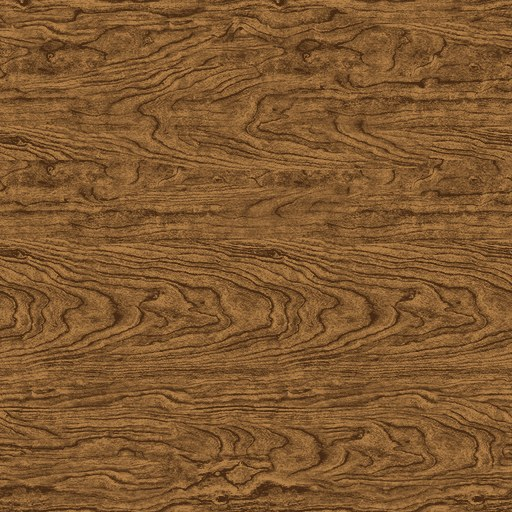
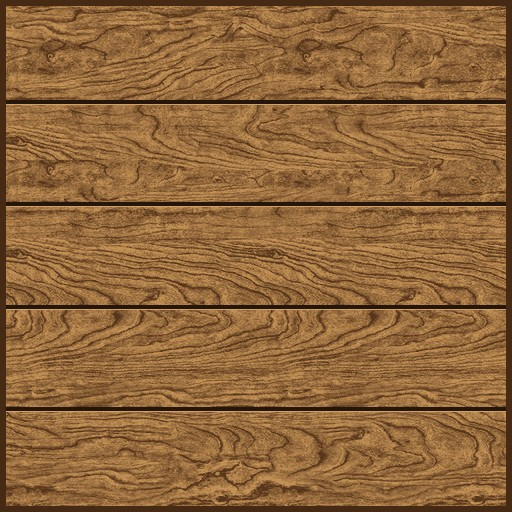
V0.7.1: crate UVs/texture on all faces, barrel fix, Frostbite containers off the stairs
Claude-Session: https://claude.ai/code/session_017ZnxAEm9RdDWkhRi9oQS2x

diff --git a/js/maps.js b/js/maps.js
@@ -133,7 +133,7 @@ function warehouse() {
   crate(-30, 16, 2, 1.2); crate(-30, -16, 2, 1.2); crate(30, 16, 2, 1.2); crate(30, -16, 2, 1.2);
   crate(-3, -6, 1.6, 1.0); crate(3, 6, 1.6, 1.0);
   // barrels
-  for (const [x, z] of [[-14, -6], [-14, 6], [14, -6], [14, 6], [-24, 0], [24, 0]]) { b.boxes.push({ x0: x - 0.32, x1: x + 0.32, y0: 0, y1: 0.9, z0: z - 0.32, z1: z + 0.32 }); b.cyl(x, z, 0.26, 0.86, { tex: 'metal', color: 0x2e6aa8, collide: false }); b.prop('barrel', x, z, 0.6, 0.6, 0.9, { rot: ((x + z) | 0) & 3, metal: 0.5, rough: 0.6 }); }
+  for (const [x, z] of [[-14, -6], [-14, 6], [14, -6], [14, 6], [-24, 0], [24, 0]]) { b.boxes.push({ x0: x - 0.32, x1: x + 0.32, y0: 0, y1: 0.9, z0: z - 0.32, z1: z + 0.32 }); b.cyl(x, z, 0.26, 0.86, { tex: 'metal', color: 0x2e6aa8, collide: false }); b.prop('barrel', x, z, 0.6, 0.6, 0.9, { rot: ((x + z) | 0) & 3, metal: 0.1, rough: 0.8 }); }
   // pallet racking along the north/south walls (solid), roller shutters + big doors on the walls (decor)
   for (const z of [-26.9, 26.9]) for (const x of [-30, -25.6, -14, 14, 25.6, 30]) {
     b.boxes.push({ x0: x - 2.1, x1: x + 2.1, y0: 0, y1: 4, z0: z - 1.1, z1: z + 1.1 });
@@ -288,15 +288,16 @@ function frostbite() {
   const solid = (model, x, z, w, d, h, o) => {
     b.box(x, z, w - 0.06, d - 0.06, h - 0.06, { tex: o.tex || 'metal', color: o.color, tile: 3, cast: false });
     b.boxes[b.boxes.length - 1] = { x0: x - w / 2, x1: x + w / 2, y0: 0, y1: h, z0: z - d / 2, z1: z + d / 2 };
+    b.visuals[b.visuals.length - 1].fb = model;
     b.prop(model, x, z, w, d, h, o);
   };
   const cont = (x, z, w, d, col) => solid('container', x, z, w, d, 2.6, { color: col, rot: d > w ? 1 : 0, tint: col, metal: 0.4, rough: 0.6 });
-  cont(-4, 9, 6, 2.4, 0x6f9bd8); cont(4, -9, 6, 2.4, 0xd9675c); cont(-12, -22, 2.4, 6, 0x6fbf7a); cont(12, 22, 2.4, 6, 0xe0a94d);
+  cont(-7.5, 9, 6, 2.4, 0x6f9bd8); cont(7.5, -9, 6, 2.4, 0xd9675c); cont(-12, -22, 2.4, 6, 0x6fbf7a); cont(12, 22, 2.4, 6, 0xe0a94d);
   // crates
   const crate = (x, z, s = 1.6, h = 1.6) => solid('crate', x, z, s, s, h, { color: 0x8a6a45, tex: 'crate', rot: ((x * 7 + z * 3) | 0) & 3, rough: 0.9, metal: 0 });
   crate(-15, 4); crate(15, -4); crate(-3, -2, 1.6, 1.0); crate(3, 2, 1.6, 1.0); crate(-33, 0, 2, 1.2); crate(33, 0, 2, 1.2);
   // fuel barrels by the cabins
-  for (const [x, z] of [[-6, 17], [-6.9, 17.7], [6, -17], [6.9, -17.7], [-26, -1.5], [26, 1.5]]) solid('barrel', x, z, 0.6, 0.6, 0.9, { color: 0x2e6aa8, tex: 'metal', rot: ((x + z) | 0) & 3, metal: 0.5, rough: 0.6 });
+  for (const [x, z] of [[-6, 17], [-6.9, 17.7], [6, -17], [6.9, -17.7], [-26, -1.5], [26, 1.5]]) solid('barrel', x, z, 0.6, 0.6, 0.9, { color: 0x2e6aa8, tex: 'metal', rot: ((x + z) | 0) & 3, metal: 0.1, rough: 0.8 });
   // pines
   const pine = (x, z, s = 1) => { b.box(x, z, 0.6, 0.6, 3 * s, { tex: 'wood', color: 0x4a3524 }); b.cone(x, z, 1.9 * s, 5 * s, { y0: 1.6 * s, color: 0x1f4a2e }); b.cone(x, z, 1.4 * s, 4 * s, { y0: 3.6 * s, color: 0x275a38 }); };
   for (const [x, z, s] of [[-12, -9, 1], [12, 9, 1], [-17, 21, 1.1], [17, -21, 1.1], [-31, -22, 1], [31, 22, 1], [-31, 22, 1], [31, -22, 1], [-5, 24, 1], [5, -24, 1], [13, -7, 0.9], [-13, 7, 0.9], [-26, 0, 1.2], [26, 0, 1.2], [0, 26, 1.1], [0, -26, 1.1]]) pine(x, z, s);

diff --git a/js/world.js b/js/world.js
@@ -109,6 +109,7 @@ export function buildWorld(map) {
   // visuals
   const propMats = new Map();
   for (const v of map.visuals) {
+    if (v.fb && PROPS[v.fb]) continue;                    // plain-box fallback: not needed once the real model is loaded
     if (v.shape === 'prop') {
       const P = PROPS[v.model];
       if (!P) continue;                                   // model not loaded: the box underneath stays as the fallback

diff --git a/README.md b/README.md
@@ -237,3 +237,6 @@ Not in yet: dog rounds, box moving, multiple box spots, melee.
 - **Aim sway** (COD style): sights drift in a figure-eight while aiming, strongest with the Kar98k, less with the SVD, small otherwise; worse while moving, better crouched. Hold **Shift** with the Kar98k or SVD to hold your breath (about 4.5 s, then a gasp).
 - **Crate texture** replaced with the new wood grain, recoloured brown.
 - **Frostbite** now uses the existing container, crate and barrel models.
+
+### V0.7.1
+- Crate model re-UV-mapped so the wood grain (with plank grooves) covers every face; barrels brighter (were rendering black); plain-box fallbacks are no longer drawn once a model is loaded; Frostbite containers moved off the watchtower stairs.
